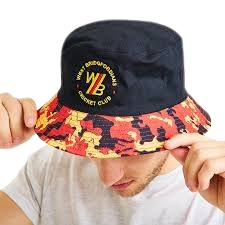
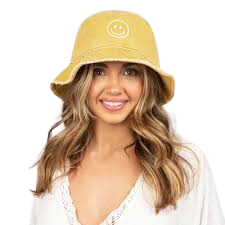
feat(more-section): update styles for mobile viewports

diff --git a/src/components/More.tsx b/src/components/More.tsx
@@ -1,10 +1,10 @@
-import { extraCases } from "../data/data";
+import { extraCases } from "../data";
 
 export default function More() {
   return (
     <section
       id="more"
-      className="w-full flex items-start flex-col overflow-hidden space-y-10 min-h-screen px-4 pt-[100px]"
+      className="w-full flex items-start flex-col overflow-hidden space-y-10 min-h-screen px-4 pt-[100px] pb-5"
     >
       <h1 className="text-black text:4xl lg:text-6xl">
         We've got{" "}
@@ -14,9 +14,9 @@ export default function More() {
       </h1>
 
       <div className="w-full flex flex-col items-center mt-10 border-t-10 border-dashed pt-4 space-y-6">
-        <div className="w-full grid grid-cols-2 gap-y-6 place-items-start">
-          <div className="w-full flex items-center px-4 justify-between col-span-2 mb-4 ">
-            <h2 className="text-2xl lg:text-8xl">
+        <div className="w-full grid grid-cols-1 gap-y-6 place-items-start lg:grid-cols-2">
+          <div className="w-full flex items-center flex-col space-y-6 lg:col-span-2 mb-4 lg:space-y-0 px-4 lg:justify-between lg:flex-row">
+            <h2 className="text-5xl text-center lg:text-8xl">
               The sky is too <span className="text-yellow-400">sunny ?</span>{" "}
             </h2>
 
@@ -30,8 +30,8 @@ export default function More() {
           </div>
 
           <div className="flex flex-col items-start px-2 space-y-4">
-            <h2 className="text-7xl">You can Tryy..</h2>
-            <div className="flex items-center space-x-4">
+            <h2 className="text-7xl text-center">You can Tryy..</h2>
+            <div className="flex items-center flex-col space-y-4 lg:space-x-4 lg:space-y-0 lg:flex-row">
               <h1 className="text-purple-600 text-3xl text-shadow-lg text-center">
                 The Bucket Hat
               </h1>
@@ -48,37 +48,47 @@ export default function More() {
           </div>
 
           <div className="flex items-start px-2 space-x-2">
-            <h2 className="text-3xl text-center mt-6">
-              It's <span className="text-red-600 text-4xl">Stylish,</span>
-              <span className="text-blue-400 text-4xl">Sleek</span> and <br />
+            <h2 className="text-xl text-center mt-6 lg:text-3xl">
+              It's{" "}
+              <span className="text-red-600 text-2xl lg:text-4xl">
+                Stylish,
+              </span>
+              <span className="text-blue-400 text-2xl lg:text-4xl">Sleek</span>{" "}
+              and <br />
               it keeps the{" "}
-              <span className="text-yellow-400 text-4xl"> Rays</span>
+              <span className="text-yellow-400 text-2xl mr-1 lg:text-4xl">
+                {" "}
+                Rays
+              </span>
               away.
             </h2>
 
-            <div className="relative overflow-hidden border w-80 h-70 border-10 border-yellow-400">
+            <div className="relative overflow-hidden border w-50 h-50 border-10 border-yellow-400 lg:w-80 lg:h-70">
               <img
-                className="absolute left-[-20px] bottom-[-20px] z-5"
+                className="absolute left-0 bottom-[-20px] z-5"
                 src="/assets/images/bucket-model2.png"
                 alt="Bucket Model"
-                width={250}
+                width={500}
                 height={250}
               />
             </div>
           </div>
 
-          <div className="flex items-center px-2 space-x-8 col-span-2">
-            <h2 className="text-6xl">
+          <div className="flex items-center px-2 flex-col space-y-4 lg:flex-row lg:space-y-0 lg:space-x-8 lg:col-span-2">
+            <h2 className="text-5xl lg:text-6xl">
               Did I mention it's
-              <span className="text-purple-600 text-7xl"> Stylish...</span>
+              <span className="text-purple-600 text-6xl lg:text-7xl">
+                {" "}
+                Stylish...
+              </span>
             </h2>
 
-            <div className="relative overflow-y-hidden border w-100 h-100 border-10 border-yellow-400">
+            <div className="relative overflow-hidden border w-80 h-80 border-10 border-yellow-400 lg:w-100 lg:h-100">
               <img
-                className="absolute left-[-20px] bottom-[-20px] z-5"
+                className="absolute left-0 bottom-[-20px] z-5"
                 src="/assets/images/bucket-model.png"
                 alt="Bucket Model"
-                width={450}
+                width={500}
                 height={250}
               />
             </div>
@@ -87,9 +97,9 @@ export default function More() {
       </div>
 
       <div className="w-full flex flex-col items-center mt-10 border-t-10 border-dashed pt-4 space-y-6">
-        <div className="w-full grid grid-cols-2 gap-y-10 gap-x-8 place-items-center">
-          <div className="w-full flex items-center col-span-2 px-4 justify-between mb-4 ">
-            <h2 className="text-2xl lg:text-8xl">
+        <div className="w-full grid grid-cols-1 place-items-center lg:grid-cols-2 lg:gap-y-10 lg:gap-x-8">
+          <div className="w-full flex items-center flex-col space-y-6 px-4 mb-8 lg:col-span-2 lg:space-y-0 lg:justify-between lg:flex-row">
+            <h2 className="text-5xl text-center lg:text-8xl">
               or are the winter <span className="text-cyan-400">chills</span>{" "}
               getting to you ?{" "}
             </h2>
@@ -103,9 +113,9 @@ export default function More() {
             />
           </div>
 
-          <div className="w-full flex flex-col col-span-2 items-center px-2 space-y-10">
+          <div className="w-full flex flex-col lg:col-span-2 items-center px-2 space-y-10">
             <h2 className="text-7xl">Here's the good ol'</h2>
-            <div className="flex items-center space-x-4">
+            <div className="flex flex-col items-center space-y-4 space-x-0 lg:flex-row lg:space-x-4 lg:space-y-0">
               <h1 className="text-purple-600 text-3xl text-shadow-lg text-center">
                 Beanie
               </h1>
@@ -122,22 +132,23 @@ export default function More() {
           </div>
 
           <div className="w-full flex items-center px-2 mt-10 justify-between">
-            <div className="relative border w-80 h-70 border-10 border-cyan-400">
+            <div className="relative overflow-hidden border w-50 h-60 border-10 border-cyan-400 lg:w-80 lg:h-70">
               <img
                 className="absolute left-[0px] bottom-[-20px] z-5"
                 src="/assets/images/beanie-model.png"
-                alt="Bucket Model"
+                alt="Beanie Model"
                 width={250}
                 height={250}
               />
             </div>
-            <h2 className="text-3xl text-center mt-6">
-              You can never go wrong with it.
+            <h2 className="text-xl text-center mt-6 lg:text-3xl">
+              You can never go <span className="text-red-600">wrong</span> with
+              it.
             </h2>
           </div>
 
           <div className="w-full flex items-center px-2 mt-10 ml-10 space-x-6">
-            <div className="relative border w-80 h-70 border-10 border-cyan-400">
+            <div className="relative border w-50 h-60 border-10 border-cyan-400 lg:w-80 lg:h-70">
               <img
                 className="absolute left-[-30px] bottom-[-20px] z-5"
                 src="/assets/images/hemp-beanie.png"
@@ -146,17 +157,18 @@ export default function More() {
                 height={250}
               />
             </div>
-            <h2 className="text-3xl text-center mt-6">
-              Warm <br /> and Cozy
+            <h2 className="text-xl text-center mt-6 lg:text-3xl">
+              Really <span className="text-purple-600">Warm</span> <br /> and
+              <span className="text-green-600"> Cozy</span>
             </h2>
           </div>
         </div>
       </div>
 
       <div className="w-full flex flex-col items-center mt-10 border-t-10 border-dashed pt-4 space-y-6">
-        <div className="w-full grid grid-cols-3 gap-y-10 gap-x-8 place-items-center">
-          <div className="w-full flex items-center col-span-3 px-4 justify-between mb-4 ">
-            <h2 className="text-2xl text-center lg:text-8xl">
+        <div className="w-full grid grid-cols-2 gap-4 place-items-center lg:grid-cols-3 lg:gap-y-10 lg:gap-x-8">
+          <div className="w-full flex items-center flex-col space-y-6 col-span-2 mb-8 lg:space-y-0 lg:col-span-3 px-4 lg:justify-between lg:flex-row">
+            <h2 className="text-5xl text-center lg:text-8xl">
               Is there anything <span className="text-red-500">else ?</span>{" "}
               <br />
               <span className="text-purple-600">We got you.</span>
@@ -174,13 +186,13 @@ export default function More() {
           {extraCases.map(({ name, url, borderColor }, index) => (
             <div key={index} className="w-full flex items-center px-2">
               <div
-                className={`relative border w-80 h-70 border-10 ${borderColor}`}
+                className={`relative w-40 h-50 overflow-hidden border border-10 ${borderColor} lg:w-80 lg:h-70 `}
               >
                 <img
-                  className="absolute left-[-30px] bottom-[-20px] z-5"
+                  className="absolute bottom-0 z-5 lg:bottom-[-80px]"
                   src={url}
                   alt={name}
-                  width={250}
+                  width={350}
                   height={250}
                 />
               </div>
@@ -189,13 +201,15 @@ export default function More() {
         </div>
       </div>
 
-      <h1 className="text-black text:4xl lg:text-6xl">
+      <h1 className="text-black text-center text:4xl lg:text-6xl">
         These aren't
+        <br />
         <span className="text-purple-600 text-5xl lg:text-7xl">
           just hats
         </span>{" "}
-        they are the
-        <span className="text-purple-600">hats</span> for{" "}
+        <br />
+        they are
+        <span className="text-purple-600"> hats</span> for{" "}
         <span className="text-purple-600">you</span>
       </h1>
     </section>

diff --git a/src/data/index.ts b/src/data/index.ts
@@ -1,0 +1,32 @@
+export const extraCases = [
+  {
+    name: "Snapback model",
+    url: "/assets/images/snapback-model.png",
+    borderColor: "border-red-500",
+  },
+  {
+    name: "Top Hat Model",
+    url: "/assets/images/top-hat-model.png",
+    borderColor: "border-brown-500",
+  },
+  {
+    name: "Beanie Model",
+    url: "/assets/images/beanie-model2.png",
+    borderColor: "border-indigo-500",
+  },
+  {
+    name: "Hardluck Snapback",
+    url: "/assets/images/hard-luck-snapback-hat.png",
+    borderColor: "border-green-500",
+  },
+  {
+    name: "Trucker Model",
+    url: "/assets/images/trucker-model.png",
+    borderColor: "border-cyan-500",
+  },
+  {
+    name: "Fedora Model",
+    url: "/assets/images/fedora-model.png",
+    borderColor: "border-purple-500",
+  },
+];

diff --git a/src/components/Header.tsx b/src/components/Header.tsx
@@ -6,7 +6,7 @@ const navLinks = [
   { title: "home", hash: "#home" },
   { title: "more", hash: "#more" },
   { title: "trending", hash: "#trending" },
-  { title: "sales", hash: "#sales" },
+  { title: "contact", hash: "#contact" },
 ];
 
 export default function Header() {
